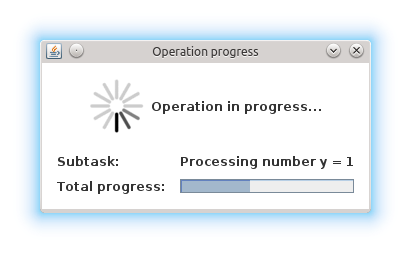
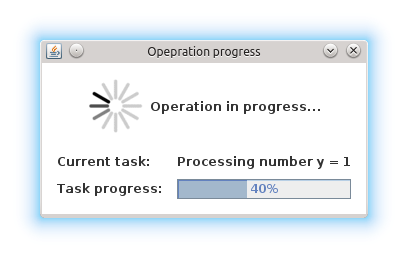
Add showProgressBarLabel property to ProgressProperty annotation

diff --git a/aibench-workbench/src/main/java/es/uvigo/ei/aibench/workbench/MonitorizeDialog.java b/aibench-workbench/src/main/java/es/uvigo/ei/aibench/workbench/MonitorizeDialog.java
@@ -204,9 +204,10 @@ public class MonitorizeDialog extends JDialog {
 	private class JProgressBarRenderer extends JProgressBar implements RenderComponent {
 		private static final long serialVersionUID = 1L;
 
-		JProgressBarRenderer() {
+		JProgressBarRenderer(boolean stringPainted) {
 			this.setMaximum(100);
 			this.setValue(0);
+			this.setStringPainted(stringPainted);
 		}
 
 		public void updateValue(Object value) {
@@ -256,11 +257,10 @@ public class MonitorizeDialog extends JDialog {
 
 			int i = 0;
 			for (PropertyDescriptor descriptor : this.descriptors) {
-
 				GridBagConstraints c = new GridBagConstraints();
 				i++;
 
-				JLabel label = new JLabel(getDescriptorName(bean, descriptor, info));
+				JLabel label = new JLabel(getDescriptorName(descriptor));
 				c.fill = GridBagConstraints.HORIZONTAL;
 				c.gridx = 0;
 				c.gridy = i;
@@ -272,16 +272,16 @@ public class MonitorizeDialog extends JDialog {
 
 
 				JComponent component =null;
-				if (descriptor.getPropertyType().equals(float.class) || descriptor.getPropertyType().equals(Float.class)) {
-					component = new JProgressBarRenderer();
-				} else {
+				if (descriptor.getPropertyType().equals(float.class) || descriptor.getPropertyType().equals(Float.class) ){
+					component = new JProgressBarRenderer(getDescriptorStringPainted(descriptor));
+				}else{
 					component = new JLabelRenderer();
 				}
 				mapping.put(descriptor, (RenderComponent) component);
-
-				c.gridx = 1;
-				c.weightx = 1.0;
-
+				
+				c.gridx=1;
+				c.weightx=1.0;
+				
 				newLayout.setConstraints(component, c);
 				beanInfoPanel.add(component);
 			}
@@ -399,7 +399,7 @@ public class MonitorizeDialog extends JDialog {
 		return orderedDescriptors.toArray(new PropertyDescriptor[orderedDescriptors.size()]);
 	}
 
-	private String getDescriptorName(Object bean, PropertyDescriptor descriptor, BeanInfo info) {
+	private String getDescriptorName(PropertyDescriptor descriptor) {
 		ProgressProperty descriptorProperty = descriptor.getReadMethod().getAnnotation(ProgressProperty.class);
 		if (descriptorProperty != null) {
 			if (descriptorProperty.label().equals(ProgressProperty.DEFAULT_LABEL)) {
@@ -410,6 +410,11 @@ public class MonitorizeDialog extends JDialog {
 		} else {
 			return descriptor.getName();
 		}
+	}
+
+	private boolean getDescriptorStringPainted(PropertyDescriptor descriptor) {
+		ProgressProperty descriptorProperty = descriptor.getReadMethod().getAnnotation(ProgressProperty.class);
+		return descriptorProperty.showProgressBarLabel();
 	}
 	
 	private void addCancelButtonPanel() {
@@ -442,16 +447,14 @@ public class MonitorizeDialog extends JDialog {
 					mapping.get(descriptor).updateValue(readMethod.invoke(bean, new Object[] {}));
 				}
 			} catch (IllegalArgumentException e) {
-				// TODO Auto-generated catch block
 				e.printStackTrace();
 			} catch (IllegalAccessException e) {
-				// TODO Auto-generated catch block
 				e.printStackTrace();
 			} catch (InvocationTargetException e) {
-				// TODO Auto-generated catch block
 				e.printStackTrace();
 			}
 		}
+
 		this.pack();
 	}
 

diff --git a/aibench-core/src/main/java/es/uvigo/ei/aibench/core/operation/annotation/ProgressProperty.java b/aibench-core/src/main/java/es/uvigo/ei/aibench/core/operation/annotation/ProgressProperty.java
@@ -41,10 +41,13 @@ public @interface ProgressProperty {
 	public static final String DEFAULT_LABEL = "";
 	public static final int DEFAULT_ORDER = 0;
 	public static final boolean DEFAULT_IGNORE = false;
+	public static final boolean DFAULT_PROGRESS_BAR_PAINTED = false;
 
 	String label() default DEFAULT_LABEL;
 
 	int order() default DEFAULT_ORDER;
 
 	boolean ignore() default DEFAULT_IGNORE;
+
+	boolean showProgressBarLabel() default DFAULT_PROGRESS_BAR_PAINTED;
 }

diff --git a/docs/source/basics.rst b/docs/source/basics.rst
@@ -486,8 +486,9 @@ Please, note that using default values for properties ``preferredWidth`` and
 dialog.
 
 Finally, bean properties can be customized using the @ProgressProperty annotation, which allows
-to specify the name and the order of each property. Moreover, this annotation allows you to 
-exclude a getter by specifying ``ignore = true``.
+to specify the name and the order of each property and, in the case of float properties, whether
+the progress bart should be painted or not. Moreover, this annotation allows you to exclude a 
+getter by specifying ``ignore = true``.
 
 Here you can see an example of a customized progress monitor dialog and a customized Java bean:
 
@@ -516,7 +517,7 @@ Here you can see an example of a customized progress monitor dialog and a custom
   	  this.subtask = subtask; 
   	}
 
-  	@ProgressProperty(order = 2, label = "Total progress: ")
+  	@ProgressProperty(order = 2, label = "Total progress: ", showProgressBarLabel = true)
   	public float getTotal() { 
   	  return this.total; 
   	}
